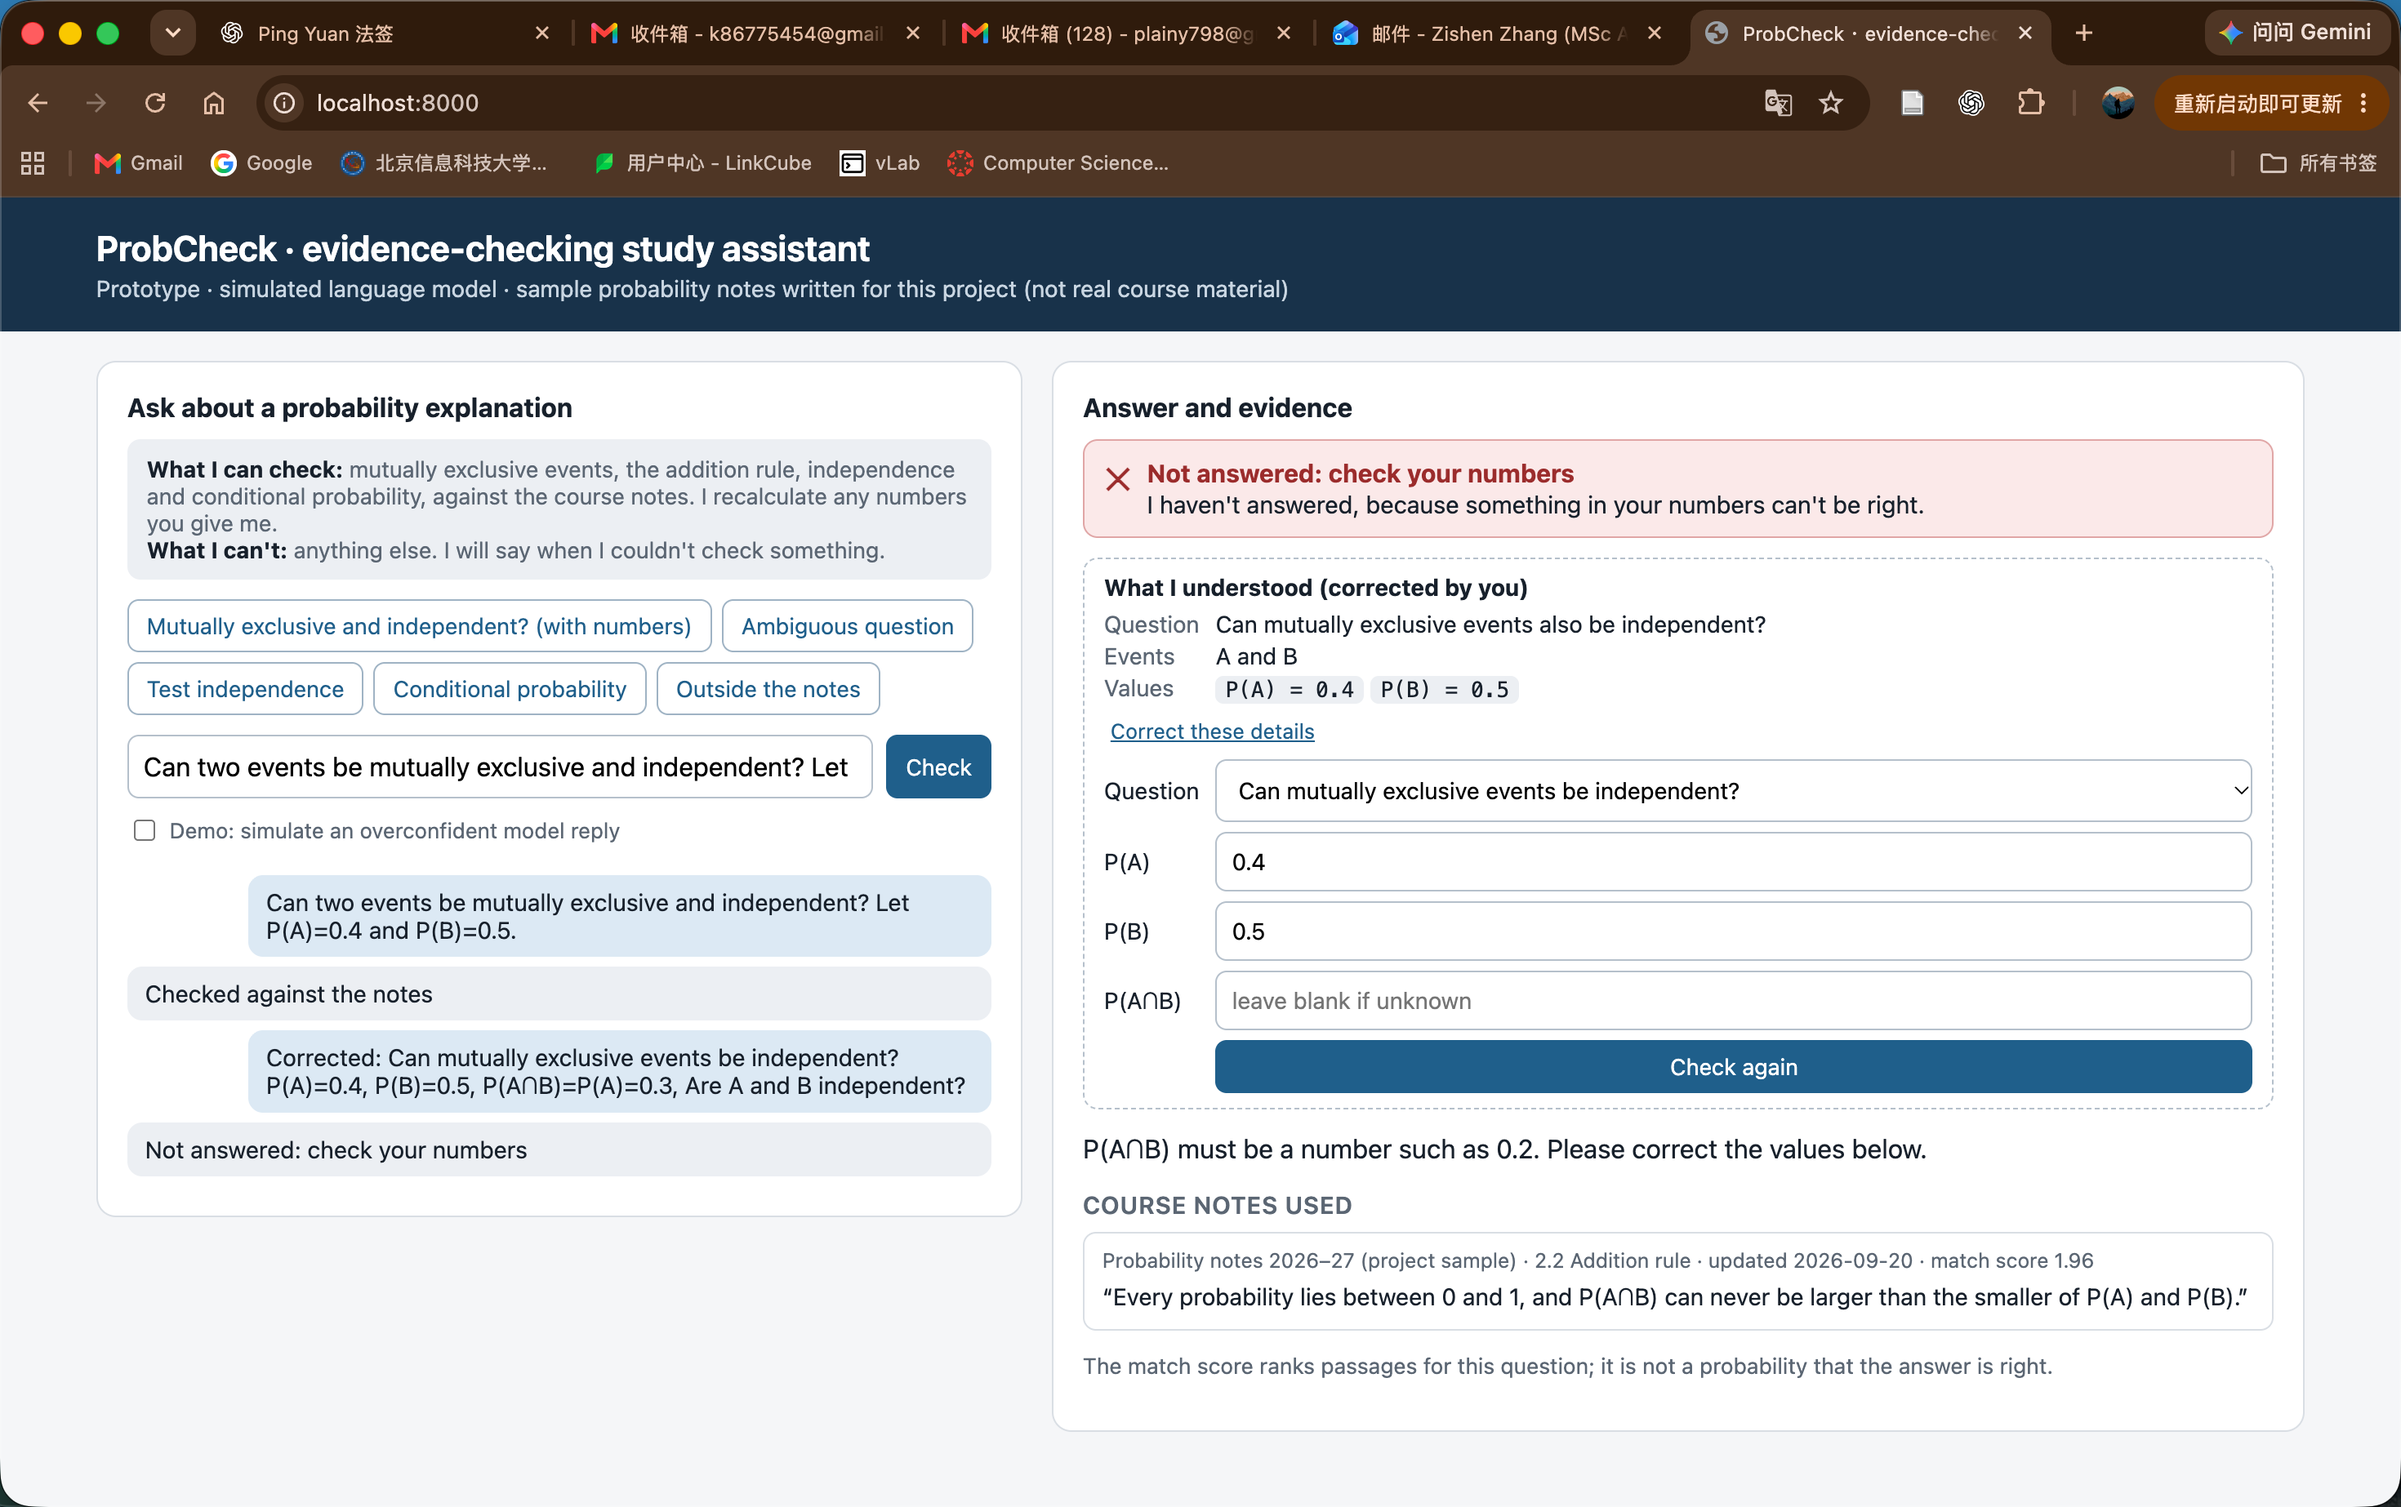
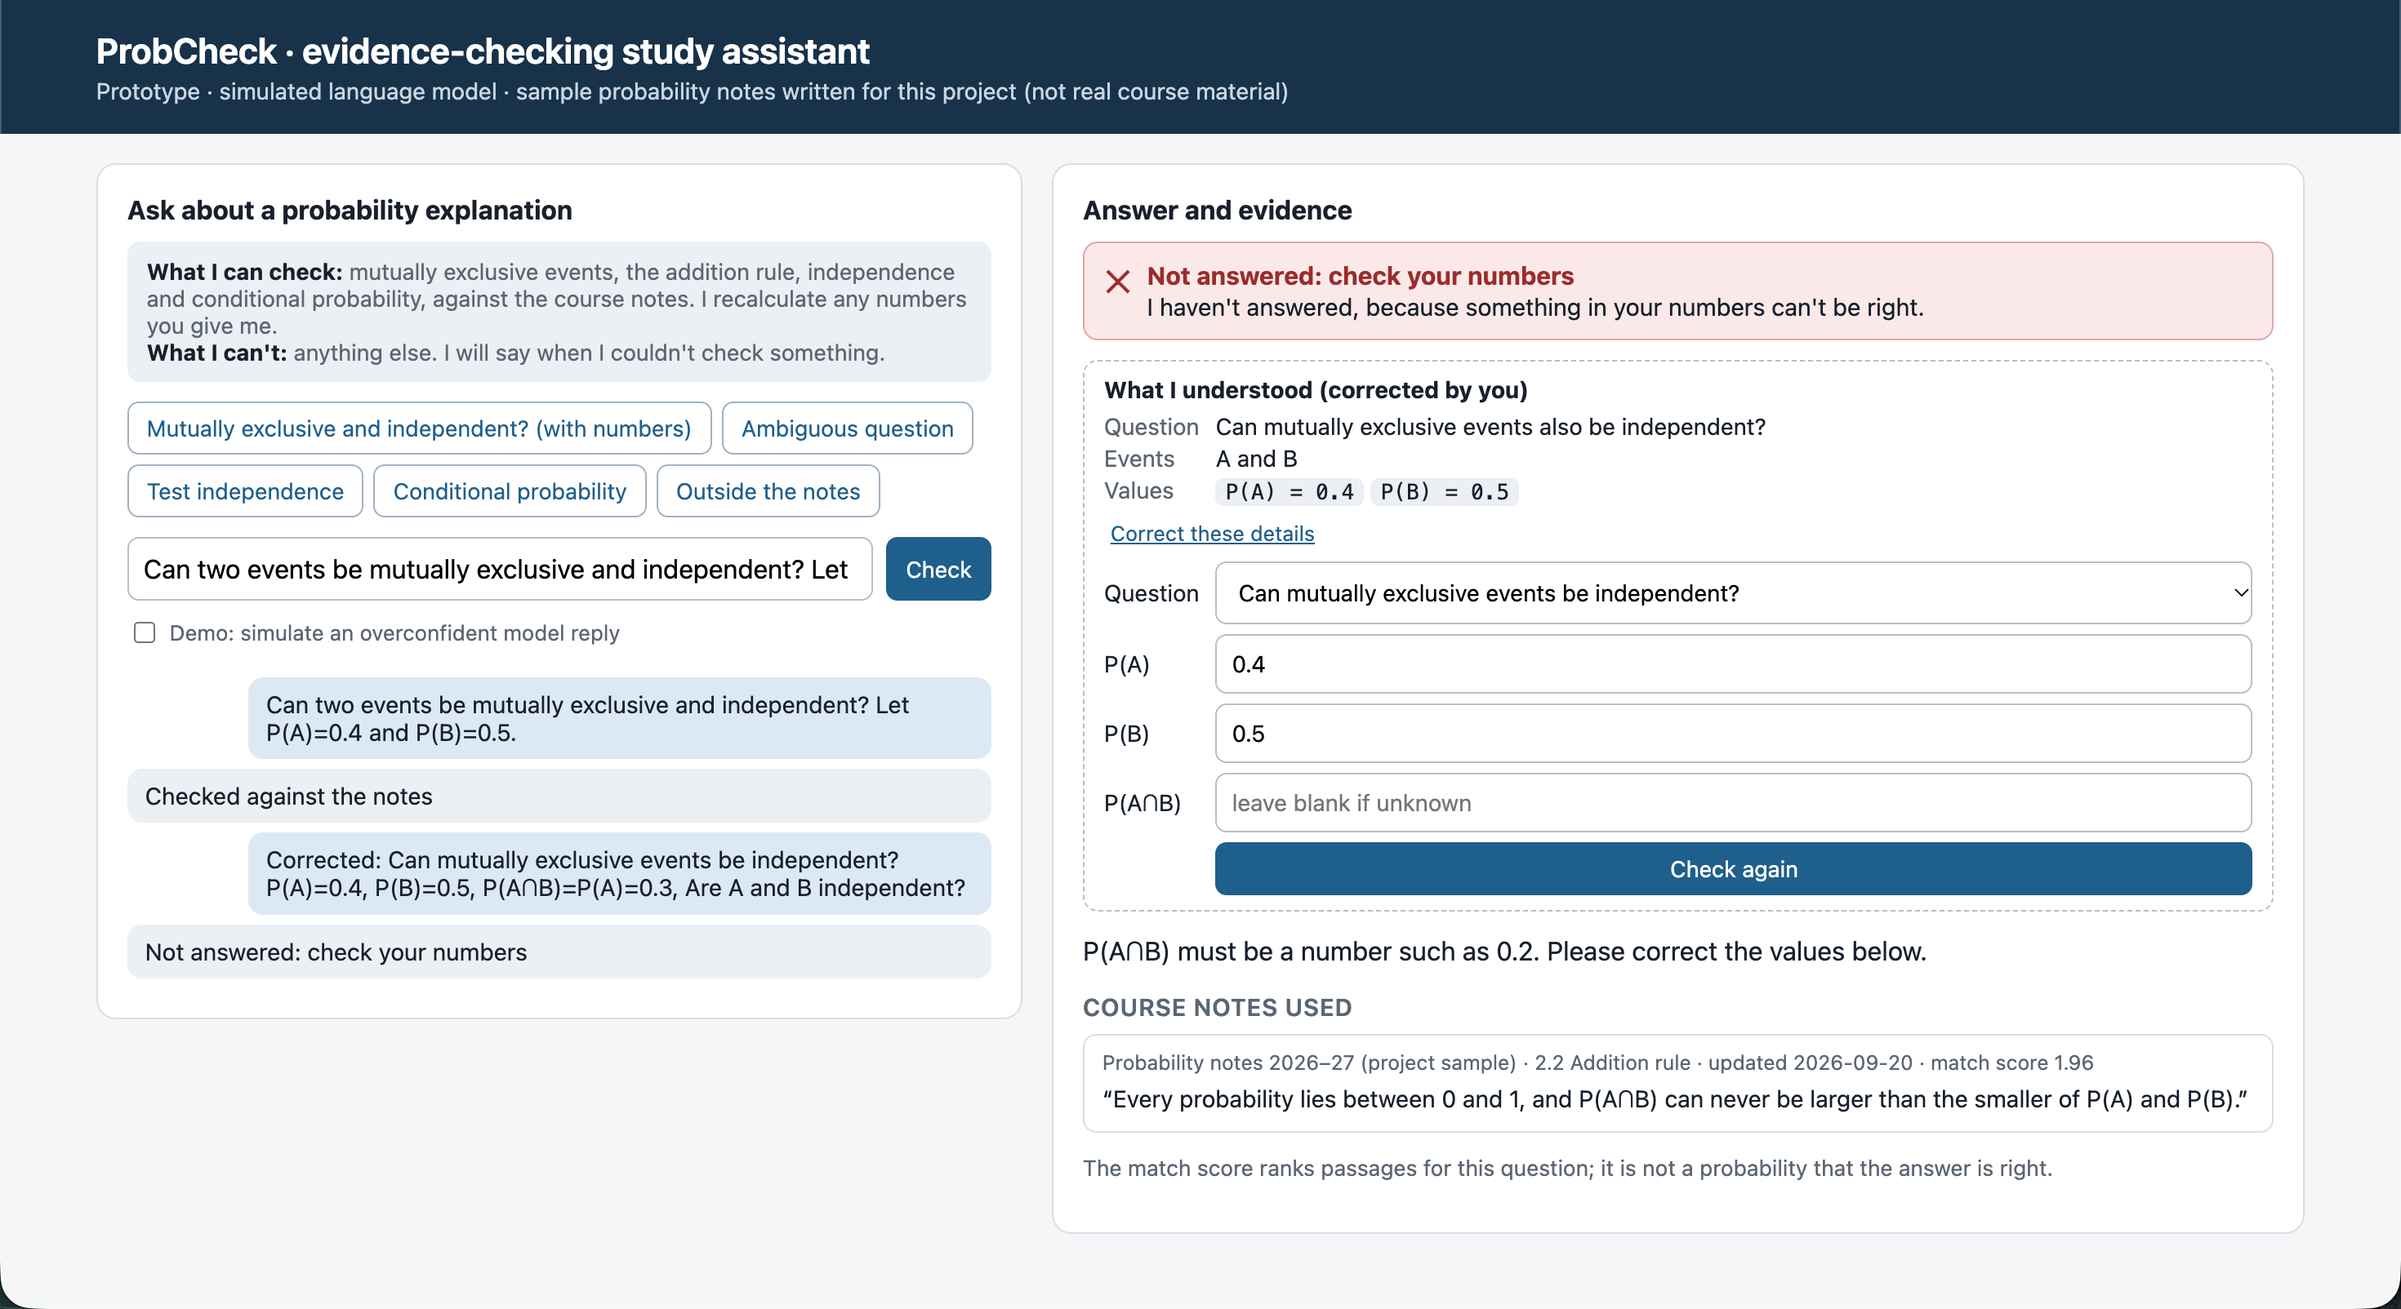
Record the second review round in the README
Adds the 19 November second-round entry (b2b9ce8), names the review
tools, updates the test count to 44 and points to tag v1.3-a2. Also crops
the browser tab and bookmark bar from fix_nonnumeric.png, which showed my
email inboxes. Claude drafted the text and the crop; I checked the diff.

diff --git a/README.md b/README.md
@@ -1,25 +1,25 @@
 # ProbCheck: an evidence-checking study assistant for probability
 
 Intelligent Interactive Systems · A2 project · student 3098204
-README prose: about 1,560 words (code blocks and commands not counted).
+README prose: about 1,840 words (code blocks and commands not counted).
 
 ProbCheck helps a first-year student decide whether to trust an explanation of a probability
 question. Each sentence of the answer links to the course-note passage it relies on. Numbers are
 recalculated in code. A verbal cue says how far the answer was checked. When the question is
 ambiguous, the system asks instead of guessing.
 
-**Submitted version:** tag `v1.2-a2` (commit hash on the report's first page). Earlier tags: `v1.0-a2` (9 November baseline), `v1.1-a2` (17 November).
+**Submitted version:** tag `v1.3-a2` (commit hash on the report's first page). Earlier tags: `v1.0-a2` (9 November baseline), `v1.1-a2` (17 November), `v1.2-a2` (19 November).
 
 ## Project status
 
 | Part | Status |
 |---|---|
 | Question parsing with a visible, editable interpretation (`parse.py`) | Implemented (rule-based) |
-| Gate: clarify unclear events, reject impossible or inconsistent values (typed question and correction form), decline out-of-scope questions | Implemented |
+| Gate: clarify unclear events, reject impossible or inconsistent values (typed question and correction form; P(A∩B) = 0 is applied when events are mutually exclusive), decline out-of-scope questions | Implemented |
 | Deterministic checks: independence, mutually exclusive + independent, addition rule, conditional probability (`checker.py`) | Implemented |
 | Retrieval with source, section, date, score; superseded passages ranked last and labelled (`retrieve.py`) | Implemented |
 | Per-sentence screening of the model's wording: citation, current source, allowed numbers, word overlap (`verify.py`) | Implemented; does not check that the meaning is correct |
-| Page: uncertainty cue, one-click source highlight, correction form, mismatch report, removed-sentence list | Implemented |
+| Page: uncertainty cue ("Screened against the notes" states what the screening covers), one-click source highlight, correction form with a mutually-exclusive checkbox, mismatch report, removed-sentence list | Implemented |
 | Revision-slot tool with validation, confirmation and log (`tools.py`) | Implemented (carried over from Lab 4, now with a topic) |
 | Language model that words the checked facts | **Simulated** (`mock_model.py`); a live OpenAI-compatible route is wired in `model.py` but **not evaluated** |
 | Course notes | **Sample notes written for this project**, not real module material |
@@ -27,7 +27,8 @@ ambiguous, the system asks instead of guessing.
 
 Known limits: the parser only recognises the notation in the examples (P(A), P(B), P(A∩B), P(A|B),
 P(A∪B)); the app keeps one conversation in memory, so it is single-user; the word-overlap check in
-`verify.py` can be fooled by a sentence that reuses the passage's words with a different meaning.
+`verify.py` can be fooled by a sentence that reuses the passage's words with a different meaning
+(for example, a negation); values are read to six decimal places.
 
 ## Technology stack
 
@@ -65,6 +66,8 @@ python app.py
 
 Regenerate figures (needs `pip install playwright pillow` and Chrome): start the app on port 8765,
 then run `python scripts/frames.py docs/frames`, `python scripts/storyboards.py` and `python scripts/diagram.py`.
+The figures were made on Linux; elsewhere set `CHROME` to your Chrome binary. The diagram PNG is the SVG
+rendered in Chrome.
 
 ## Development record
 
@@ -129,8 +132,18 @@ record below says where Claude advised.
 - **My own wording fix (19 November):** while retesting, I noticed the message said "correct the values
   below" though the form is above it. I edited `app.py`, re-ran the tests and checked the page
   ([`f3bec15`](../../commit/f3bec15), `fix_wording.png`).
+- **Second review round (19 November, with Claude):** reviews by OpenAI Codex and ChatGPT found more
+  inputs still marked checked. I reproduced the worst: mutually exclusive events with P(A)=0.8 and
+  P(B)=0.7 gave P(A∪B) = 1.5 (`bug_exclusive_union.png`). Claude drafted the fixes: P(A∩B) = 0 is
+  applied in the checks, a given P(A∪B) or P(A|B) must match, negative, 1/0 and infinite values are
+  rejected, rounded results are shown with ≈ and accepted by the verifier (a correct 0.3333 sentence
+  had been removed), tiny probabilities are no longer read as zero, the form keeps "mutually
+  exclusive" as a checkbox, and the cue now says what screening covers. It regenerated the storyboards,
+  adding the student's triggering action to each, and the diagram. I ran all 44 tests and retried
+  three cases in the browser ([`b2b9ce8`](../../commit/b2b9ce8), `fix_exclusive_union.png`). A negated
+  sentence can still pass the word-overlap screen; the report states this limit.
 
-All 31 tests pass on the tagged version (`python -m unittest discover -s tests`).
+All 44 tests pass on the tagged version (`python -m unittest discover -s tests`).
 
 ## AI assistance
 
@@ -146,13 +159,18 @@ All 31 tests pass on the tagged version (`python -m unittest discover -s tests`)
 - **Review response (19 November):** Claude checked which bugs in two AI reviews were real on
   `v1.1-a2`, and drafted the consistency check, its tests, these entries and the messages of
   `ec28b79` and `f3bec15`.
+- **Second review response (19 November):** OpenAI Codex and ChatGPT were used only to review the
+  submission. Claude reproduced their cases on `v1.2-a2`, drafted the fixes and tests, regenerated the
+  figures, cropped the browser bar from `fix_nonnumeric.png`, and drafted these entries and the messages
+  of `b2b9ce8` and this README commit.
 - **What Claude checked:** it ran the test suite and self-tests and inspected every screenshot (this is
   how the hidden-form, ∩-glyph and wording bugs were found). It recomputed the example arithmetic and
   checked the references against the Lab 1 shortlist and the A1 sources.
 - **What I checked or changed:** I found the NaN bug above while testing. Claude diagnosed the cause and
   told me which lines to change; I made the edit, tested it in the browser and committed it myself.
   For the consistency fix I reproduced the bug first, then ran and retried Claude's change; the
-  wording fix was my own.
+  wording fix was my own. In the second round I reproduced the 1.5 case, then retried it, a rounded
+  P(A|B) and the form's checkbox after the fix.
 
 ## Additional files
 
